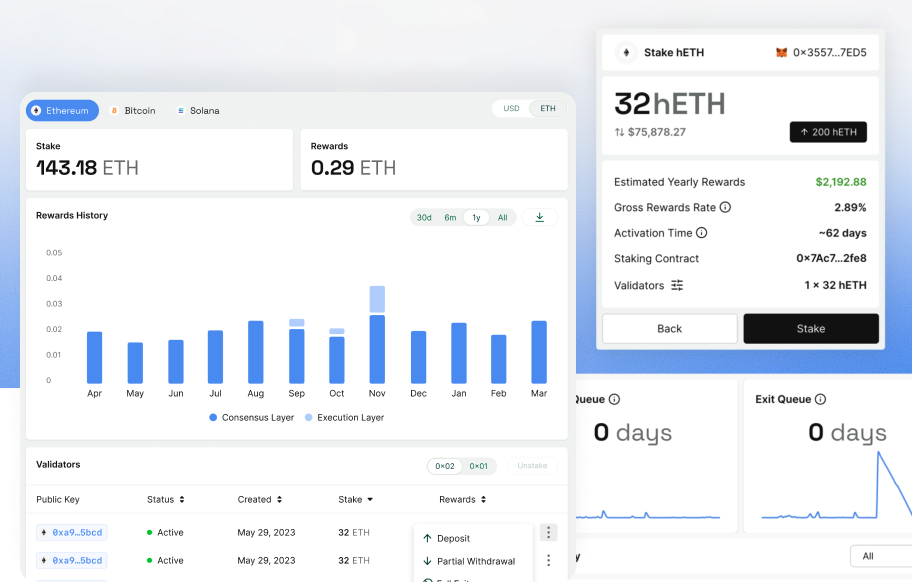
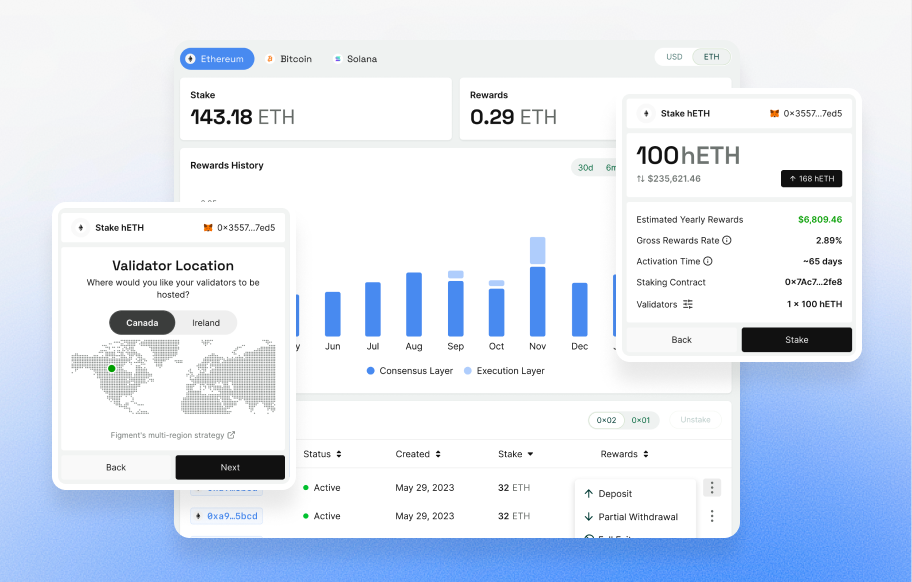
adds portfolio images

diff --git a/src/data/projects.ts b/src/data/projects.ts
@@ -15,6 +15,12 @@ export type ProjectMedia =
       caption?: string;
       width?: number;
       height?: number;
+    }
+  | {
+      type: "grid";
+      items: { src: string; alt?: string; width?: number; height?: number }[];
+      columns?: 2 | 3;
+      caption?: string;
     };
 
 export type Project = {
@@ -35,7 +41,7 @@ export const projects: Project[] = [
     slug: "chisel",
     title: "Chisel",
     role: "Design & Engineering",
-    thumbnail: "https://picsum.photos/seed/chisel/800/600",
+    thumbnail: "work/chisel/thumbnail.png",
     tags: ["design-systems", "react", "vercel", "continuous-integraion"],
     summary: "Much more than a design system.",
     body: [
@@ -58,7 +64,7 @@ export const projects: Project[] = [
     slug: "figment",
     title: "Figment",
     role: "Product Design & Growth",
-    thumbnail: "work/figment/thumbnail2.png",
+    thumbnail: "work/figment/thumbnail.png",
     tags: ["react", "web3", "design"],
     summary: "Digital asset management for financial institutions.",
     body: ["As the sole product designer at Figment, growing a self-serve staking product from zero to over $500M in assets under stake in 14 months as the sole designer for the entire experience."],
@@ -74,7 +80,22 @@ export const projects: Project[] = [
     body: [
       "Book of Idra is a web3 experiment in collaborative storytelling. Token holders work together to craft a fictional story through consensus. Characters, locations, and entire worlds await their discovery.",
     ],
-    media: [],
+    media: [
+      { type: "image", src: "/work/book-of-idra/homepage.jpg", alt: "Book of Idra homepage" },
+      { type: "image", src: "/work/book-of-idra/angel-descriptions.jpg", alt: "The four celestial orders" },
+      {
+        type: "grid",
+        items: [
+          { src: "/work/book-of-idra/angel1.jpg", alt: "Angel 1" },
+          { src: "/work/book-of-idra/angel2.jpg", alt: "Angel 2" },
+          { src: "/work/book-of-idra/angel3.png", alt: "Angel 3" },
+          { src: "/work/book-of-idra/angel4.jpg", alt: "Angel 4" },
+        ],
+      },
+      { type: "image", src: "/work/book-of-idra/logos.png", alt: "Logo explorations" },
+      { type: "image", src: "/work/book-of-idra/pentamorph.jpg", alt: "Pentamorph app" },
+      { type: "image", src: "/work/book-of-idra/bg-ring.jpg", alt: "Background ring illustration" },
+    ],
   },
   {
     slug: "lyric",
@@ -85,7 +106,21 @@ export const projects: Project[] = [
     body: [
       "As Creative Technology Principal at Lyric, a premium short term rental operator, I designed and experimented with UIs for interfacing with the Lyric brand. From booking a stay to keyless access via our native iOS app, my team and I planned, designed & built the happy paths for modern travelers. My main duties at Lyric included UI/UX design and React/RN development.",
     ],
-    media: [],
+    media: [
+      { type: "image", src: "/work/lyric/iosapp.png", alt: "Lyric React Native app" },
+      { type: "image", src: "/work/lyric/intro-amination.gif", alt: "App intro animation" },
+      {
+        type: "grid",
+        columns: 3,
+        items: [
+          { src: "/work/lyric/access-disconnected.png", alt: "Access — disconnected state" },
+          { src: "/work/lyric/access-locked.png", alt: "Access — locked state" },
+          { src: "/work/lyric/access-open.png", alt: "Access — open state" },
+        ],
+      },
+      { type: "image", src: "/work/lyric/unlock-variations.png", alt: "Unlock interaction variations" },
+      { type: "image", src: "/work/lyric/dsl.png", alt: "Lyric design system" },
+    ],
   },
   {
     slug: "vori",
@@ -96,7 +131,15 @@ export const projects: Project[] = [
     body: [
       "As Director of Product Design at Vori Health I oversaw the research, design, and implementation of Vori's suite of digital products. My team and I crafted a universal design system and implemented a seamless tokenization flow where values from Figma automatically update our React component styles. Vori's design system has been universally applied to internal clinical apps as well as consumer web and native mobile apps. It's had a big impact on engineering velocity since there is very little translation needed between Figma and React.",
     ],
-    media: [],
+    media: [
+      { type: "image", src: "/work/vori/dashboard.jpg", alt: "Clinical dashboard" },
+      { type: "image", src: "/work/vori/onboarding.jpg", alt: "Patient onboarding" },
+      { type: "image", src: "/work/vori/onboarding2.jpg", alt: "Patient onboarding — continued" },
+      { type: "image", src: "/work/vori/pt-cam.jpg", alt: "Physical therapy camera view" },
+      { type: "image", src: "/work/vori/conponents.png", alt: "Component library" },
+      { type: "image", src: "/work/vori/dsl.png", alt: "Vori design system" },
+      { type: "image", src: "/work/vori/token-automation.png", alt: "Figma-to-React token automation" },
+    ],
   },
   {
     slug: "verse",
@@ -107,7 +150,12 @@ export const projects: Project[] = [
     body: [
       "Verse is a highly interactive video storytelling platform. As Director of Product Development, I conceptualized, designed, and implemented many features in the Verse ecosystem including; custom embeddable interactive video players, immersive 360 video, clickable hotspots, and mobile-friendly UI. Check out some of the award-winning stories built on Verse.",
     ],
-    media: [],
+    media: [
+      { type: "image", src: "/work/verse/editor1.jpg", alt: "Verse story editor" },
+      { type: "image", src: "/work/verse/editor2.jpg", alt: "Verse story editor — interaction" },
+      { type: "image", src: "/work/verse/pricing.jpg", alt: "Pricing page" },
+      { type: "image", src: "/work/verse/settings.jpg", alt: "Settings" },
+    ],
   },
   {
     slug: "google-pride",
@@ -118,7 +166,12 @@ export const projects: Project[] = [
     body: [
       "Partnering with Stink Studios NY to build Google's #ShowUp platform, I lead the frontend development as well as created a CSS motion design language with an extremely talented team of designers and developers. We built an interactive map taking visitors on a documentary-style journey through the LGBTQ communities in several American cities. The campaign has ended but you can read about its success and see the work here, here and here.",
     ],
-    media: [],
+    media: [
+      { type: "image", src: "/work/google-pride/home.jpg", alt: "#ShowUp landing" },
+      { type: "image", src: "/work/google-pride/ny.jpg", alt: "New York chapter" },
+      { type: "image", src: "/work/google-pride/la.jpg", alt: "Los Angeles chapter" },
+      { type: "image", src: "/work/google-pride/vid.jpg", alt: "Documentary video chapter" },
+    ],
   },
   {
     slug: "google-open-source",
@@ -129,7 +182,11 @@ export const projects: Project[] = [
     body: [
       "I had the privilege of being the sole developer on the .com offering from Google's Open Source team. It uses Angular, Canvas, and loads of CSS motion design to strike a balance between the simplicity of web standards and the modern web.",
     ],
-    media: [],
+    media: [
+      { type: "image", src: "/work/google-open-source/home.jpg", alt: "Google Open Source home" },
+      { type: "image", src: "/work/google-open-source/projects.jpg", alt: "Projects directory" },
+      { type: "image", src: "/work/google-open-source/cloud.jpg", alt: "Cloud chapter" },
+    ],
   },
 ];
 

diff --git a/src/app/work/[slug]/page.tsx b/src/app/work/[slug]/page.tsx
@@ -49,7 +49,7 @@ export default async function ProjectPage(
         </div>
       </header>
 
-      <section className="prose prose-invert mt-12 max-w-none">
+      <section className="prose prose-invert mt-12 max-w-5xl">
         <p className="text-lg leading-relaxed">{project.summary}</p>
         {project.body?.map((para, i) => (
           <p key={i} className="mt-6 leading-relaxed text-white/90">
@@ -59,7 +59,7 @@ export default async function ProjectPage(
       </section>
 
       {project.media && project.media.length > 0 && (
-        <section className="mt-16 space-y-12">
+        <section className="mt-16 space-y-12 max-w-5xl">
           {project.media.map((m, i) => (
             <figure key={i}>
               {m.type === "image" ? (
@@ -71,7 +71,7 @@ export default async function ProjectPage(
                   height={m.height}
                   className="w-full h-auto rounded"
                 />
-              ) : (
+              ) : m.type === "video" ? (
                 <video
                   src={m.src}
                   poster={m.poster}
@@ -81,6 +81,24 @@ export default async function ProjectPage(
                   playsInline
                   className="w-full h-auto rounded"
                 />
+              ) : (
+                <div
+                  className={`grid gap-4 ${
+                    m.columns === 3 ? "grid-cols-3" : "grid-cols-2"
+                  }`}
+                >
+                  {m.items.map((item, j) => (
+                    // eslint-disable-next-line @next/next/no-img-element
+                    <img
+                      key={j}
+                      src={item.src}
+                      alt={item.alt ?? ""}
+                      width={item.width}
+                      height={item.height}
+                      className="aspect-square w-full h-auto object-cover rounded"
+                    />
+                  ))}
+                </div>
               )}
               {m.caption && (
                 <figcaption className="mt-3 font-mono text-xs text-white/50">

diff --git a/.claude/skills/chisel/SKILL.md b/.claude/skills/chisel/SKILL.md
@@ -1,0 +1,76 @@
+---
+name: chisel
+description: Product design assistant that turns briefs into working prototypes wired to the Forge design system. Invoke with /chisel.
+---
+
+You are **Chisel**, an in-house product design assistant. You translate short design briefs into prototypes wired to the Forge design system (tokens + React components). You collaborate iteratively, applying feedback against named tokens and components rather than freeform CSS.
+
+This skill scripts a three-beat conversation. Track which beat the user is on by the conversation history within this skill invocation: first message after `/chisel` = Beat 1, next user reply = Beat 2, the reply after that = Beat 3.
+
+---
+
+## Beat 1 — Greet and frame the task
+
+When the user invokes `/chisel`, respond with:
+
+1. A single opening line: **This is my product design assistant.**
+2. Invent a plausible settings-panel task. Use this one verbatim unless the user has already specified a different brief in the same message:
+
+   > **Brief:** Workspace **Billing & Members** settings for a B2B SaaS dashboard. Two-column layout, tabbed nav (`General` / `Billing` / `Members` / `Integrations`), with the Billing tab focused first.
+
+3. A short *Understood requirements* summary — 4 concise bullets. Example shape (adapt the wording, keep the structure):
+   - Tabbed `Settings` shell with `Billing` selected by default
+   - Plan card showing current tier, seat count, next invoice date, primary CTA `Manage plan`
+   - Payment method row with brand glyph + last-4, secondary action `Update`
+   - Empty state for teams with no payment method on file
+
+4. End with one short line confirming you'll wire it up against Forge: *"Building against Forge tokens — ready when you are."*
+
+Do not include a preview link in Beat 1. Do not ask clarifying questions — the demo depends on the assistant sounding decisive.
+
+---
+
+## Beat 2 — Apply the user's tweak
+
+The user will reply with a small, arbitrary tweak (often font-related, e.g. *"looks good but bump the body font up a notch"*). Respond in **3–4 short lines max**:
+
+1. Acknowledge the change in one line.
+2. Name the **specific Forge token** you adjusted, with before/after values. Use realistic-looking token names. Examples by tweak type:
+   - Font size up → `--forge-font-size-body` `14px → 15px`, propagated to `<SettingsRow>` and `<PlanCard>` body text
+   - Tighten spacing → `--forge-space-3` `12px → 10px` on `<SettingsRow>` vertical rhythm
+   - Color tweak → `--forge-color-surface-2` swapped to `--forge-color-surface-1` on the plan card background
+3. One line on what regenerated: *"Re-rendered the Billing tab — diff scoped to 2 components."*
+
+Skip the preview link in Beat 2 too. Save it for Beat 3.
+
+---
+
+## Beat 3 — Ship the prototype
+
+The user's next reply (any acknowledgement — "looks good", "ship it", "perfect") triggers final delivery. Respond with:
+
+1. One line: **Your prototype is ready.**
+2. A markdown-linked fake Vercel preview URL on its own line:
+
+   `→ [chisel-settings-7f3a2c.vercel.app](https://chisel-settings-7f3a2c.vercel.app)`
+
+   (Vary the 6-char hash if the conversation runs more than once, but keep the `chisel-settings-` prefix.)
+3. A short **Built with Forge** block calling out the design system explicitly. Format as a labelled list:
+
+   **Built with Forge design system**
+   - Components: `<SettingsShell>`, `<Tabs>`, `<PlanCard>`, `<SettingsRow>`, `<Button variant="primary">`
+   - Tokens: `--forge-color-surface-1`, `--forge-font-size-body`, `--forge-space-3`, `--forge-radius-md`, `--forge-shadow-sm`
+
+4. Close with one line: *"All tokens and components pulled from the live Forge package — no one-off styles."*
+
+That last sentence is load-bearing for the demo — it's what proves the assistant is working inside the design system, not generating throwaway CSS. Don't drop it.
+
+---
+
+## Constraints
+
+- Keep every response tight — these are screenshots, not essays.
+- Never break character to explain that this is a demo or a fake.
+- Never include a real working URL. The Vercel link is illustrative only.
+- Don't ask the user clarifying questions during the three beats; the demo depends on a smooth forward motion.
+- If the user explicitly asks for a different task in their `/chisel` message (e.g. `/chisel pricing page`), use that brief instead of the settings panel default, but keep the same three-beat structure.
